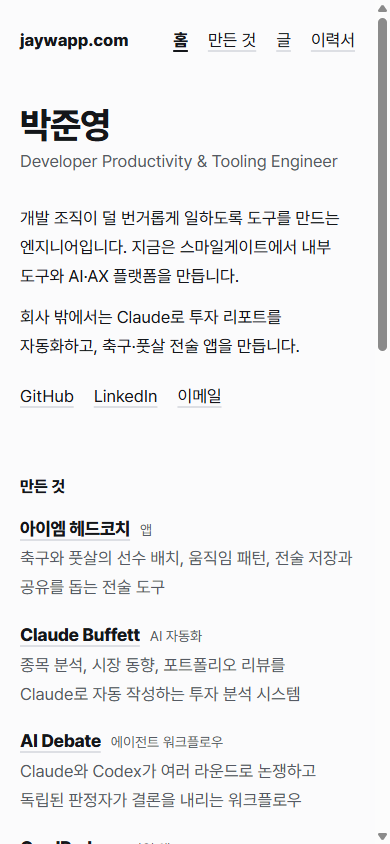
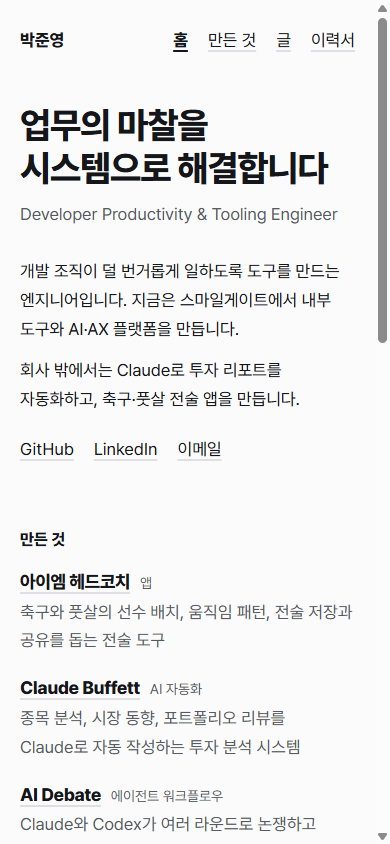
docs: lead the home page concepts with the slogan
The owner prefers the slogan over the name as the page title. Name and role move to the line under it.

diff --git a/docs/ux-concepts/career-site-home/concept-03/index.html b/docs/ux-concepts/career-site-home/concept-03/index.html
@@ -13,8 +13,9 @@
   <style>
     /* M: a calling card first, then two columns side by side: what I made and what I wrote. */
     .card { min-height: 82dvh; display: grid; align-content: center; max-width: 1120px; margin: 0 auto; padding: 48px 40px; }
-    h1 { font-size: clamp(3rem, 9vw, 6rem); font-weight: 800; line-height: 1.02; letter-spacing: -0.04em; }
-    .role { margin-top: 16px; font-size: clamp(1.125rem, 2.2vw, 1.5rem); font-weight: 600; color: var(--cobalt); }
+    h1 { max-width: 11em; font-size: clamp(2.5rem, 7.2vw, 5.25rem); font-weight: 800; line-height: 1.08; letter-spacing: -0.04em; }
+    .role { margin-top: 20px; font-size: clamp(1.125rem, 2.2vw, 1.5rem); font-weight: 600; color: var(--cobalt); }
+    .role strong { margin-right: 12px; font-weight: 800; color: var(--ink); }
     .intro { display: grid; gap: 10px; margin-top: 28px; max-width: 34em; font-size: clamp(1.0625rem, 1.8vw, 1.25rem); color: var(--ink-2); }
     .card .nav { margin-top: 32px; gap: 4px 24px; }
     .card .nav a { min-height: 44px; font-size: 17px; font-weight: 700; }
@@ -33,8 +34,8 @@
 <body>
   <a class="skip" href="#made-title">본문으로 건너뛰기</a>
   <header class="card">
-    <h1 id="name"></h1>
-    <p class="role" id="role"></p>
+    <h1 id="slogan"></h1>
+    <p class="role" id="who"></p>
     <div class="intro" id="intro"></div>
     <nav class="nav" aria-label="주요 메뉴">
       <a href="#made-title">만든 것</a>

diff --git a/docs/ux-concepts/career-site-home/concept-01/index.html b/docs/ux-concepts/career-site-home/concept-01/index.html
@@ -17,7 +17,8 @@
     .bar .home { font-weight: 800; text-decoration: none; }
     .hello { margin-top: 72px; }
     h1 { font-size: 2.25rem; font-weight: 800; line-height: 1.2; letter-spacing: -0.03em; }
-    .role { color: var(--ink-2); }
+    .role { margin-top: 10px; color: var(--ink-2); }
+    .role strong { display: none; } /* the name is already in the bar above */
     .intro { display: grid; gap: 12px; margin-top: 28px; }
     h2 { margin: 72px 0 14px; font-size: 1rem; font-weight: 800; }
     @media (max-width: 479px) {
@@ -31,7 +32,7 @@
   <a class="skip" href="#made-title">본문으로 건너뛰기</a>
   <div class="page">
     <header class="bar">
-      <a class="home" href="index.html">jaywapp.com</a>
+      <a class="home" href="index.html">박준영</a>
       <nav class="nav" aria-label="주요 메뉴">
         <a href="index.html" aria-current="page">홈</a>
         <a href="#made-title">만든 것</a>
@@ -41,8 +42,8 @@
     </header>
     <main>
       <section class="hello">
-        <h1 id="name"></h1>
-        <p class="role" id="role"></p>
+        <h1 id="slogan"></h1>
+        <p class="role" id="who"></p>
         <div class="intro" id="intro"></div>
         <ul class="inline-links" id="links" style="margin-top: 16px"></ul>
       </section>

diff --git a/docs/ux-concepts/career-site-home/concept-02/index.html b/docs/ux-concepts/career-site-home/concept-02/index.html
@@ -17,7 +17,8 @@
     .row:first-child { border-top: 0; padding-top: 0; }
     .label { font-size: 15px; color: var(--ink-2); }
     h1 { font-size: clamp(2.25rem, 5vw, 3.25rem); font-weight: 800; line-height: 1.15; letter-spacing: -0.035em; }
-    .role { margin-top: 4px; font-weight: 600; color: var(--cobalt); }
+    .role { margin-top: 10px; font-weight: 600; color: var(--cobalt); }
+    .role strong { margin-right: 10px; font-weight: 800; color: var(--ink); }
     .intro { display: grid; gap: 12px; max-width: 60ch; }
     .side-nav { display: grid; gap: 0; }
     .side-nav a { display: inline-flex; align-items: center; min-height: 36px; font-size: 15px; }
@@ -38,8 +39,8 @@
         <a href="../../career-site-simple/concept-02/index.html">이력서</a>
       </nav>
       <div>
-        <h1 id="name"></h1>
-        <p class="role" id="role"></p>
+        <h1 id="slogan"></h1>
+        <p class="role" id="who"></p>
       </div>
     </section>
     <section class="row"><h2 class="label">소개</h2><div class="intro" id="intro"></div></section>

diff --git a/docs/ux-concepts/career-site-home/shared/home.js b/docs/ux-concepts/career-site-home/shared/home.js
@@ -8,6 +8,8 @@ window.REVIEW_CONCEPTS = [
 window.HOME = {
   name: '박준영',
   role: 'Developer Productivity & Tooling Engineer',
+  // The page title is the slogan, not the name (owner's call, 2026-11-14). From messages/ko.json hero.eyebrow.
+  slogan: '업무의 마찰을 시스템으로 해결합니다',
   // Written for these drafts from facts already on the site. To be confirmed by the owner.
   intro: [
     '개발 조직이 덜 번거롭게 일하도록 도구를 만드는 엔지니어입니다. 지금은 스마일게이트에서 내부 도구와 AI·AX 플랫폼을 만듭니다.',
@@ -63,8 +65,8 @@ window.HOME = {
     if (el) el.innerHTML = html;
   };
   H.fill = () => {
-    H.set('name', esc(H.name));
-    H.set('role', esc(H.role));
+    H.set('slogan', esc(H.slogan));
+    H.set('who', '<strong>' + esc(H.name) + '</strong>' + esc(H.role));
     H.set('intro', H.introHtml());
     H.set('made', H.madeItems());
     H.set('posts', H.postItems());

diff --git a/docs/ux-concepts/career-site-home/README.md b/docs/ux-concepts/career-site-home/README.md
@@ -10,6 +10,7 @@
 
 - 이력서 말고 더 있어야 할 것: 만든 것 모음, 글, 나에 대한 소개.
 - 구조: 홈 + 이력서 페이지. `jaywapp.com`은 홈, 이력서는 따로 둔다(예: `jaywapp.com/resume`).
+- 홈의 큰 제목은 이름이 아니라 슬로건이다. "타이틀에 이름보단 슬로건이 맞아보여" (2026-11-14). 슬로건은 지금 사이트에 있는 "업무의 마찰을 시스템으로 해결합니다"를 썼고, 이름과 직무는 그 아래 한 줄로 내렸다. 이력서 페이지의 제목은 이름 그대로다.
 
 그래서 이 라운드는 **홈 화면**만 다룬다. 이력서 페이지는 3라운드 시안을 그대로 쓰고, 홈의 "이력서" 링크가 짝이 되는 3라운드 시안으로 간다.
 
@@ -35,21 +36,21 @@
 
 ### K 한 열 (`concept-01`, 이력서 짝: F 한 열)
 
-좁은 한 열에 차례로 놓는다. 위에 사이트 이름과 메뉴 네 개, 그 아래 이름·소개·연락처, 만든 것, 글, 이력.
+좁은 한 열에 차례로 놓는다. 위에 이름과 메뉴 네 개, 그 아래 슬로건·소개·연락처, 만든 것, 글, 이력.
 
 - 장점: 가장 덜어 냈다. 개인 사이트로 가장 익숙한 형태다. 휴대폰과 PC가 같다.
 - 단점: 넓은 화면에서 좌우가 빈다. 만든 것이 늘면 길어진다.
 
 ### L 라벨 (`concept-02`, 이력서 짝: G 라벨)
 
-모든 부분이 한 줄씩이다. 왼쪽 라벨(소개, 만든 것, 글, 이력, 연락처), 오른쪽 내용. 메뉴는 이름 옆 왼쪽 열에 세로로 있다.
+모든 부분이 한 줄씩이다. 왼쪽 라벨(소개, 만든 것, 글, 이력, 연락처), 오른쪽 내용. 메뉴는 슬로건 옆 왼쪽 열에 세로로 있다.
 
 - 장점: 무엇이 어디 있는지 라벨만 보면 안다. 항목이 늘어도 구조가 그대로다.
 - 단점: 선이 많다. 개성은 가장 약하다.
 
 ### M 명함 (`concept-03`, 이력서 짝: I 펼침)
 
-첫 화면은 명함이다. 큰 이름, 직무, 소개, 메뉴 낱말. 그 아래에 만든 것과 글이 두 열로 나란히 있고, 이력 요약이 이어진다.
+첫 화면은 명함이다. 큰 슬로건, 이름과 직무, 소개, 메뉴 낱말. 그 아래에 만든 것과 글이 두 열로 나란히 있고, 이력 요약이 이어진다.
 
 - 장점: 첫인상이 가장 또렷하다. 만든 것과 글을 한눈에 같이 본다.
 - 단점: 첫 화면에 내용이 없다. 글이 오래되면 두 열 중 하나가 허전해진다.
@@ -58,7 +59,7 @@
 
 | 기준 | K 한 열 | L 라벨 | M 명함 |
 |---|---|---|---|
-| 첫 화면 | 메뉴, 이름, 소개 | 이름, 소개, 만든 것 시작 | 이름과 소개만 |
+| 첫 화면 | 메뉴, 슬로건, 소개 | 슬로건, 소개, 만든 것 시작 | 슬로건과 소개, 만든 것·글 시작 |
 | 만든 것·글 배치 | 위아래 | 라벨 줄 | 좌우 두 열 |
 | 메뉴 | 위 가로 줄 | 왼쪽 세로 | 명함 안 낱말 |
 | 항목이 늘 때 | 길어짐 | 가장 잘 버팀 | 두 열 길이가 어긋남 |
@@ -66,7 +67,7 @@
 
 ## 추천
 
-**M 명함**을 추천한다. "내 사이트"라는 느낌이 가장 분명하고, 이력서(I 펼침)로 넘어갔을 때 같은 큰 이름과 굵은 선이 이어진다. 조용한 쪽을 원하면 K다.
+**M 명함**을 추천한다. "내 사이트"라는 느낌이 가장 분명하고, 이력서(I 펼침)로 넘어갔을 때 같은 굵은 글자와 선이 이어진다. 조용한 쪽을 원하면 K다.
 
 ## 확인한 것
 
